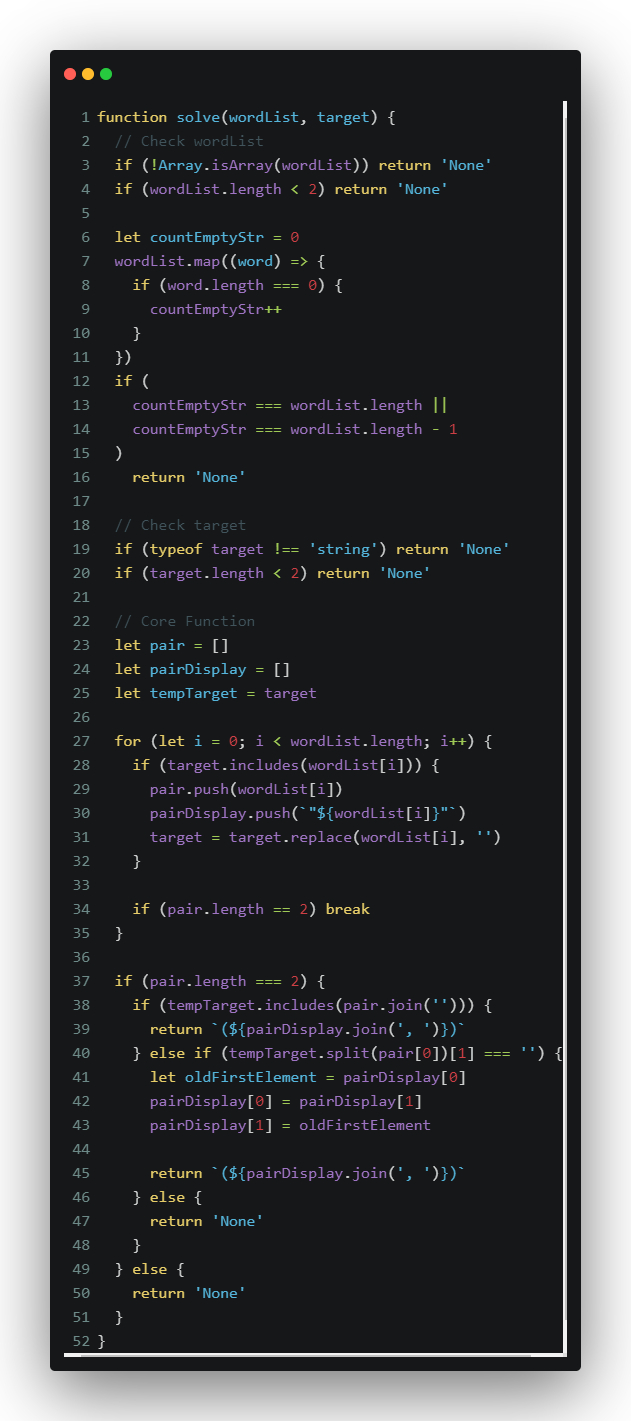
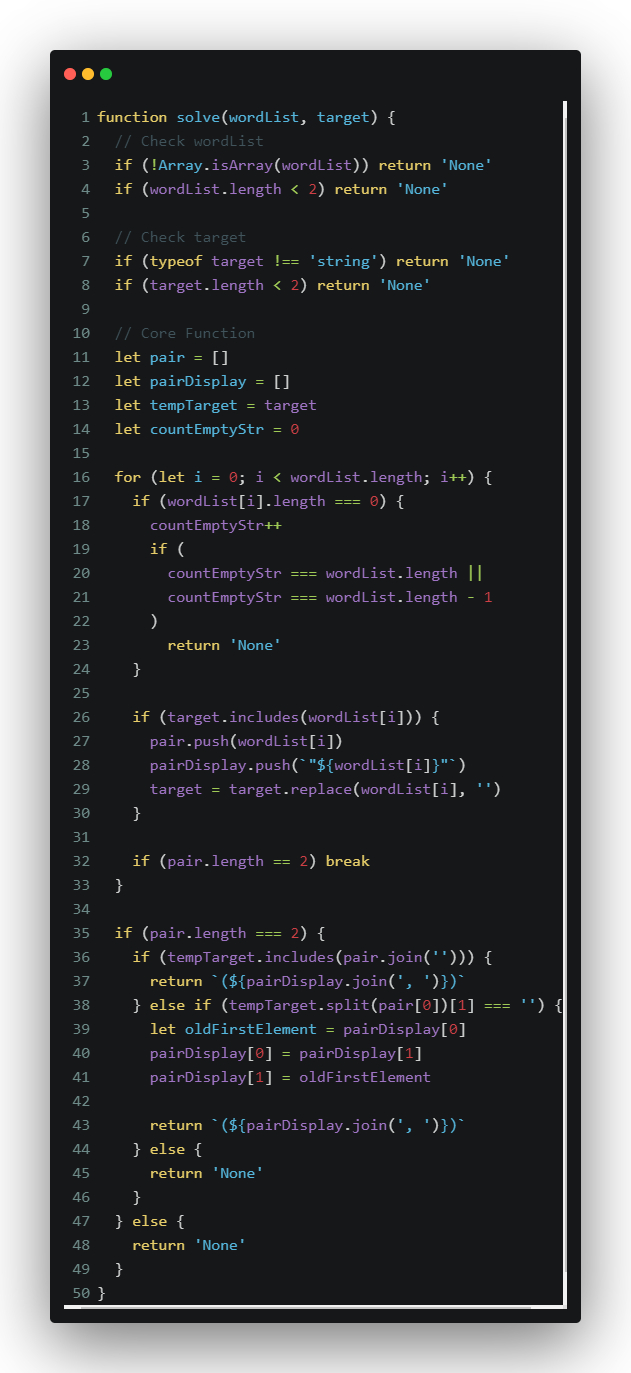
Refactor algo

diff --git a/algo/solve.js b/algo/solve.js
@@ -3,18 +3,6 @@ function solve(wordList, target) {
   if (!Array.isArray(wordList)) return 'None'
   if (wordList.length < 2) return 'None'
 
-  let countEmptyStr = 0
-  wordList.map((word) => {
-    if (word.length === 0) {
-      countEmptyStr++
-    }
-  })
-  if (
-    countEmptyStr === wordList.length ||
-    countEmptyStr === wordList.length - 1
-  )
-    return 'None'
-
   // Check target
   if (typeof target !== 'string') return 'None'
   if (target.length < 2) return 'None'
@@ -23,8 +11,18 @@ function solve(wordList, target) {
   let pair = []
   let pairDisplay = []
   let tempTarget = target
+  let countEmptyStr = 0
 
   for (let i = 0; i < wordList.length; i++) {
+    if (wordList[i].length === 0) {
+      countEmptyStr++
+      if (
+        countEmptyStr === wordList.length ||
+        countEmptyStr === wordList.length - 1
+      )
+        return 'None'
+    }
+
     if (target.includes(wordList[i])) {
       pair.push(wordList[i])
       pairDisplay.push(`"${wordList[i]}"`)

diff --git a/algo/README.md b/algo/README.md
@@ -23,9 +23,8 @@ Validate section
 
 1. Validate argument **wordList** is not to be Array, it will return **None**.
 2. Validate argument **wordList** if it length to be less than 2, it will return **None**.
-3. Validate argument **wordList** if it have any element to be empty string or only have a one element to be word but another element to be empty string, it will return **None**.
-4. Validate argument **target** is not to be String, it will return **None**.
-5. Validate argument **target** if it length to be less than 2, it will return **None**.
+3. Validate argument **target** is not to be String, it will return **None**.
+4. Validate argument **target** if it length to be less than 2, it will return **None**.
 
 Function section
 
@@ -42,14 +41,21 @@ let pairDisplay = []
 let tempTarget = target
 ```
 
-3. Loop wordList
+3. Define countEmptyStr for count empty string of wordList element
 
-   1. Check each **wordList** element contain in **target**.
-   2. Push **wordList** element to **pair** and **pairDisplay**, if wordList element contain in target.
-   3. Remove a word in **target** that matched with **wordList**.
-   4. Check length of **pair** to equal 2, if length is equal 2, break loop.
+```js
+let countEmptyStr = 0
+```
 
-4. Return
+4. Loop wordList
+
+   1. Validate **wordList** element if it have any element to be empty string or only have a one element to be word but another element to be empty string, it will return None.
+   2. Check each **wordList** element contain in **target**.
+   3. Push **wordList** element to **pair** and **pairDisplay**, if wordList element contain in target.
+   4. Remove a word in **target** that matched with **wordList**.
+   5. Check length of **pair** to equal 2, if length is equal 2, break loop.
+
+5. Return
 
    1. Check length of **pair** to equal 2, if length is equal 2 go to next step, if length is not equal 2 return **None**.
    2. Check word sequence of **pair** that equal to **target** string by concat **pair** and check that includes a certain value among **tempTarget**
@@ -65,14 +71,10 @@ The space complexity is O(n). Cause (**wordList[]**) is used to loop. So the spa
 
 ![Code image](./solve.jpeg 'solve image')
 
-1. Line 6: 1 operations
-2. Line 7: loop of **wordList** size n
-3. Line 8-10: 2 operations inside the for loop
-4. Line 23-25: 3 operations
-5. Line 27: loop of **wordList** size n
-6. Line 28-34: 4 operations inside the for loop
-7. Line 41: 1 operations
+1. Line 11-14: 4 operations
+2. Line 16: loop of **wordList** size n
+3. Line 17-32: 5 operations inside the for loop
 
-So, this get 1 + 2(n) + 3 + 4(n) + 1 = 2(n) + 4(n) + 5
+So, this get 5(n) + 4
 
-In the big O notation, it will be O(n) + O(n)
+In the big O notation, it will be O(n)
